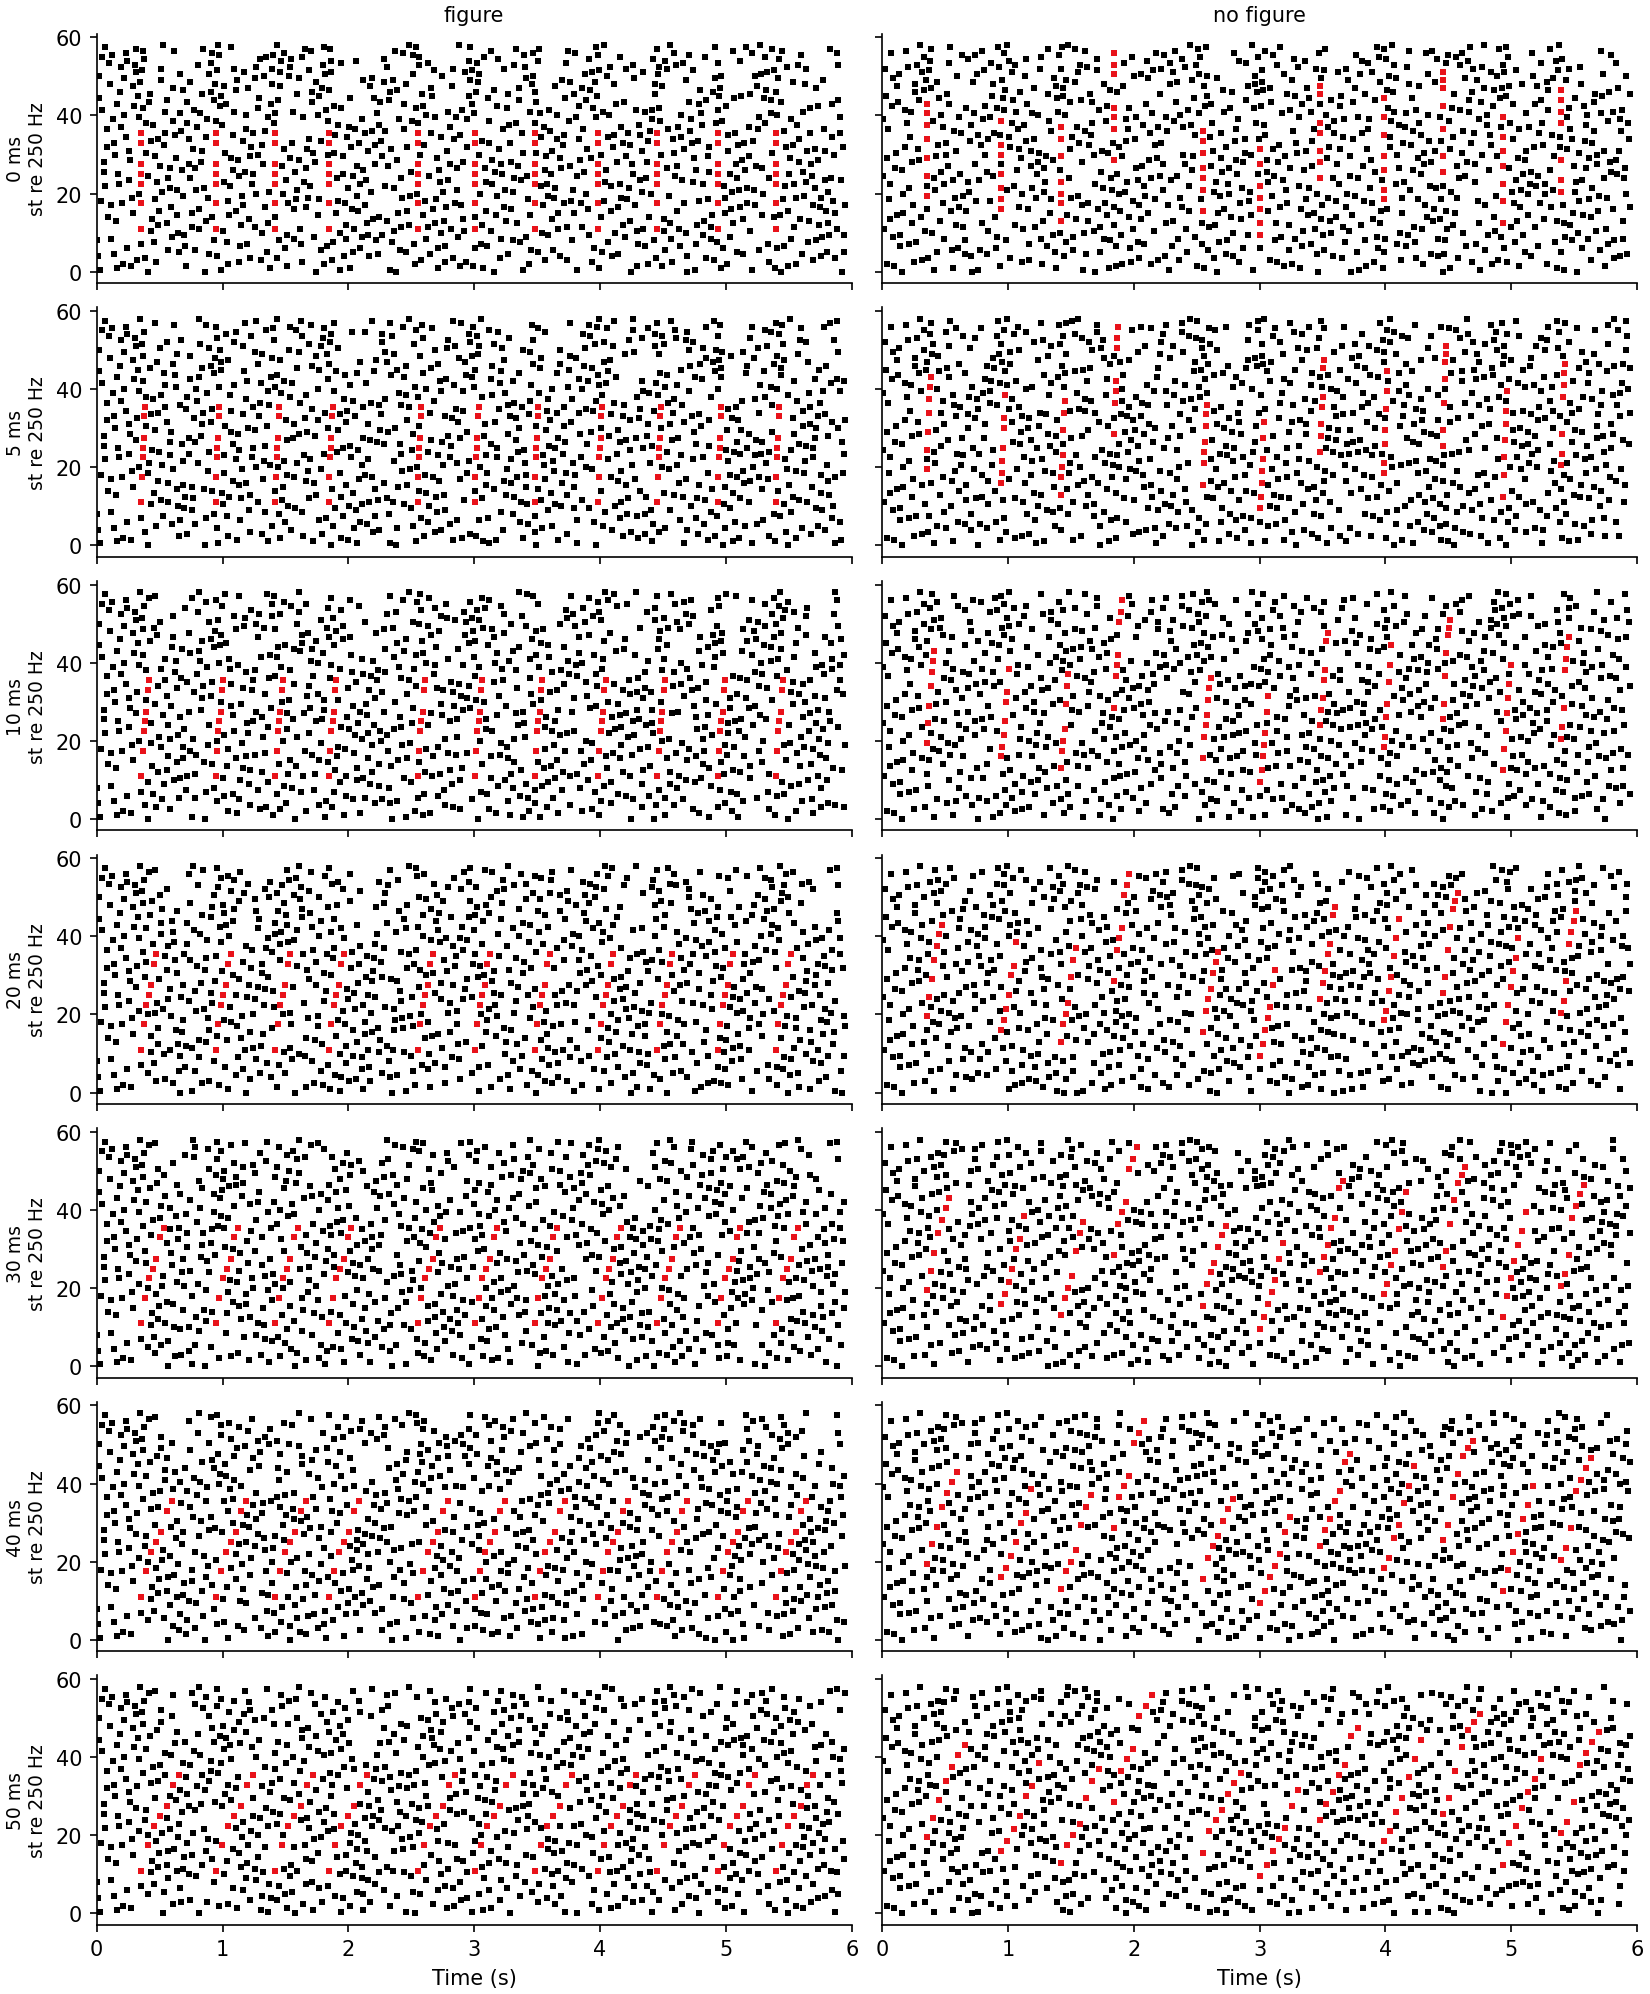
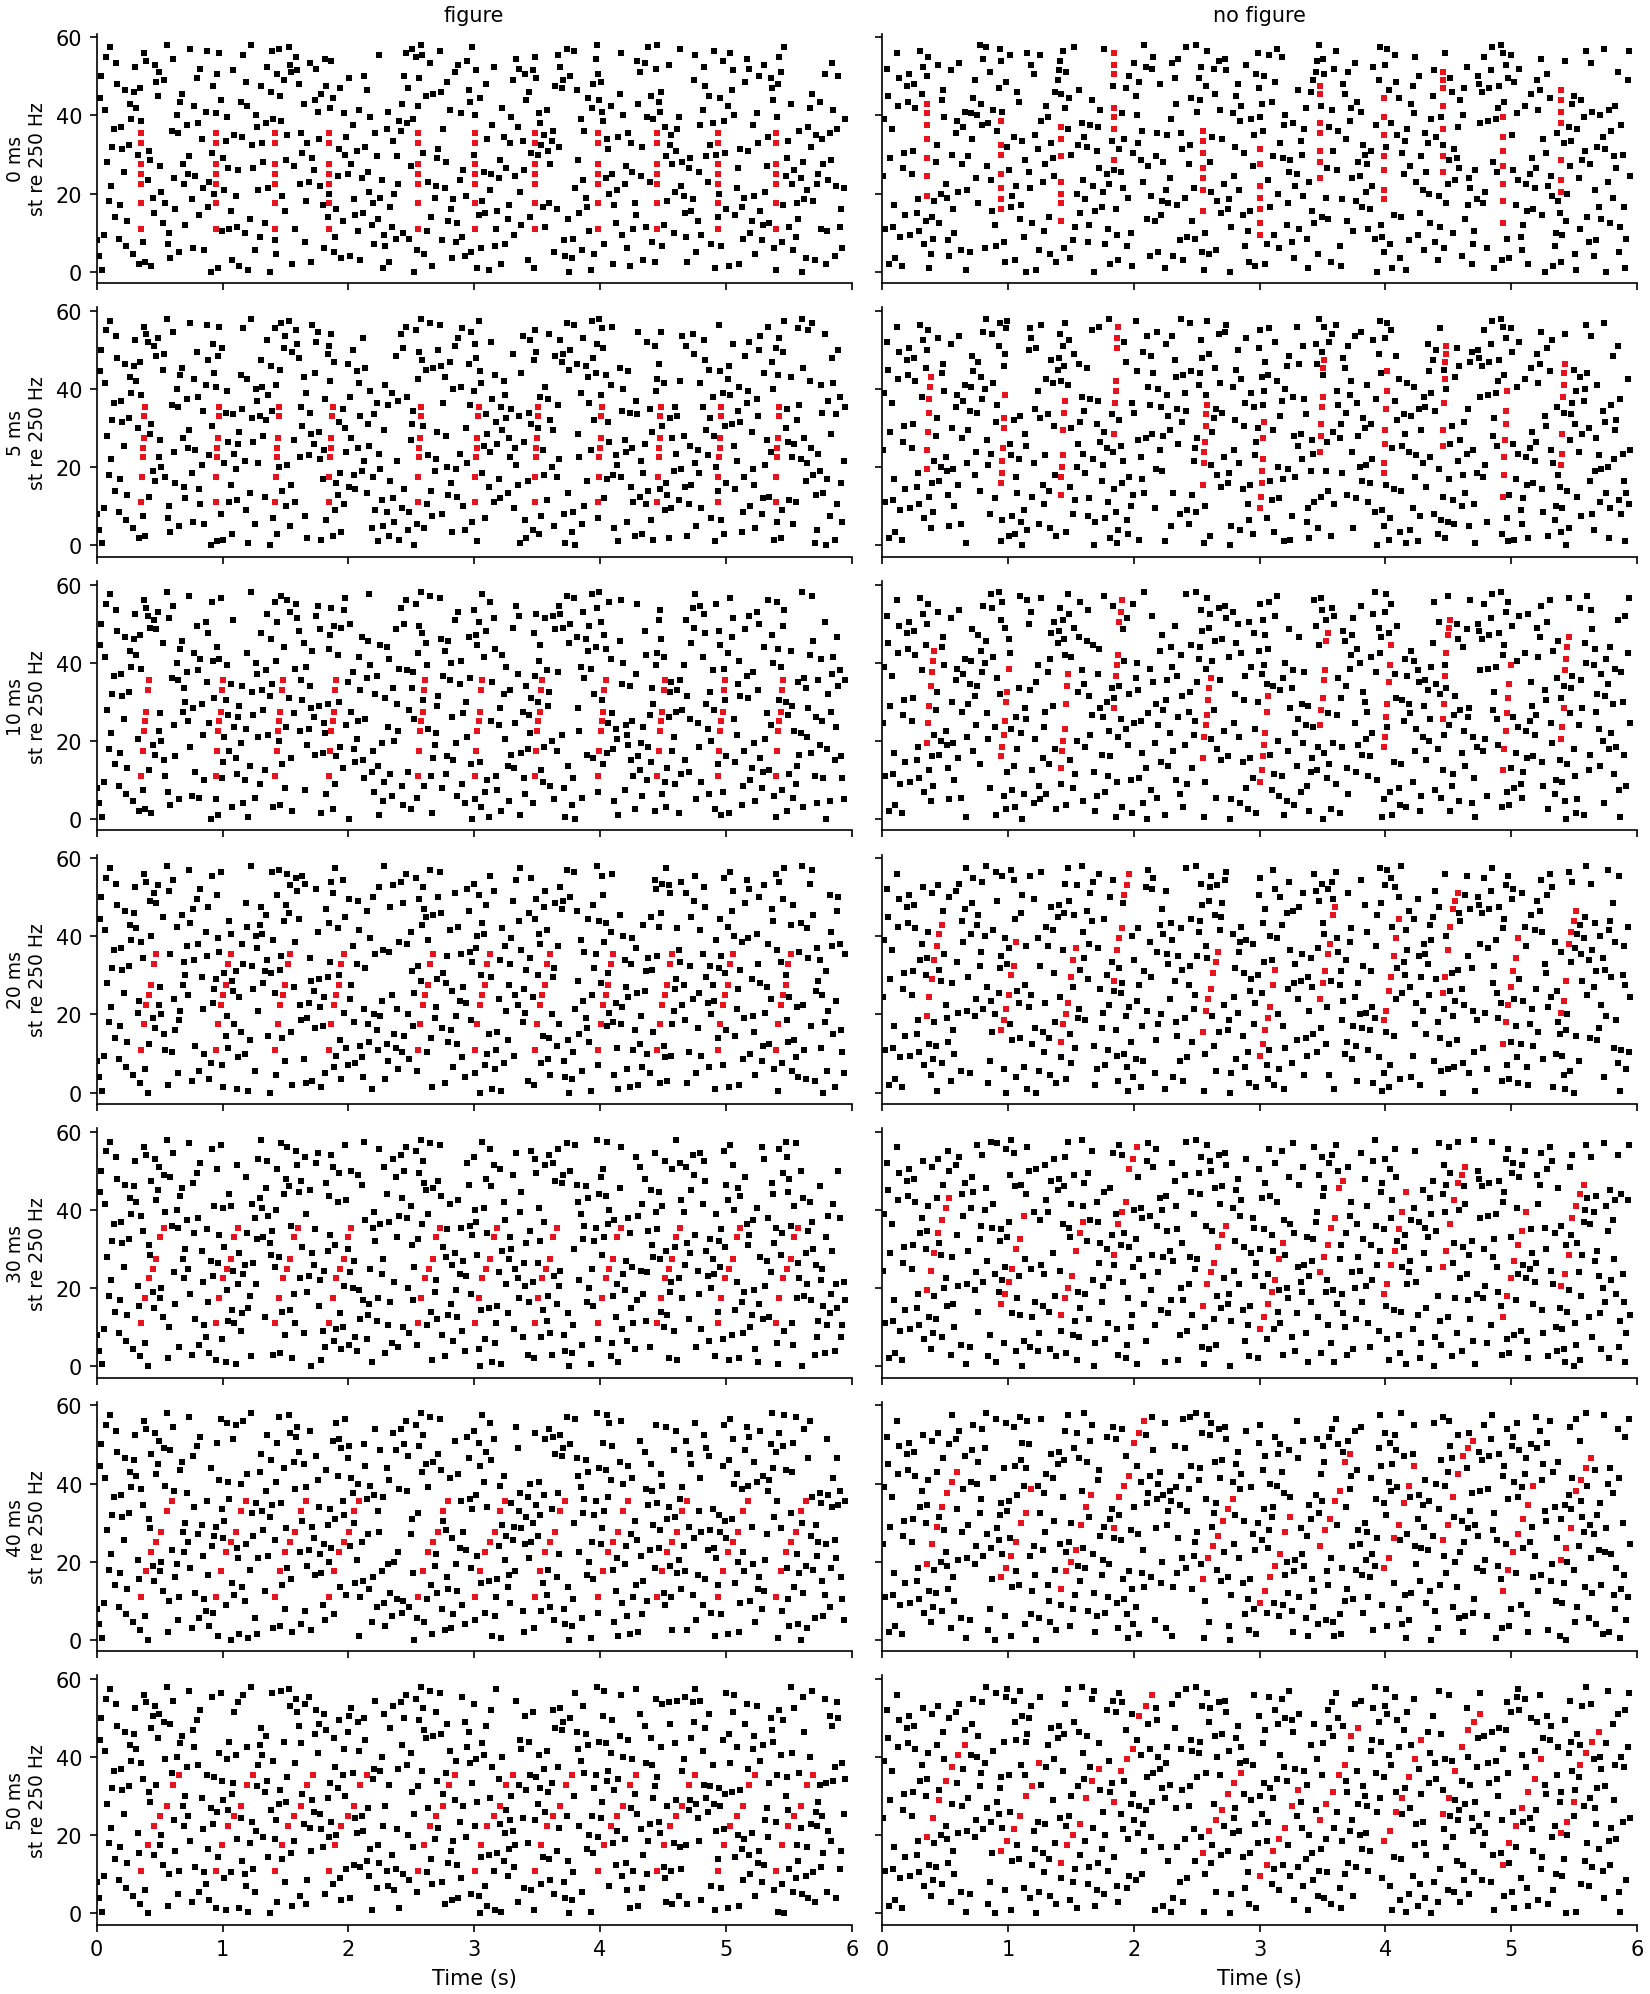
audios/sfg_task: thin the cloud, on the evidence of the first listener
Eight tones sounding gives 2.4x contrast, and the first listener sat at
chance at every delay except 0 ms.  Five gives 3.2x and is the bottom of the
5 to 15 range Teki draws from, so it is not an exotic setting.  Everything
else in the battery holds: 672 tones in both intervals at every delay, level
matched to 0.000 dB, element pulse under 0.07 dB, no beating pairs, and the
present-absent envelope difference still below the noise floor of its own
measurement.

The price is that the levelling has more to do.  Seven tones arriving on top
of five is a bigger relative jump than on top of eight, so the compensating
gain moves 5.0 dB at 0 ms rather than 3.9, and everything ducks audibly when
a chord arrives.  It is identical in the two intervals, so it is not a cue.

Also: practice that ends below criterion now says so, on screen and in the
log, instead of sliding quietly into the main block.  The first session
finished practice at 8 of 16 and went on anyway.

Changed region(s): [[0.0618, 0.0, 0.9891, 0.9639]]

diff --git a/audios/sfg_task/run.py b/audios/sfg_task/run.py
@@ -196,8 +196,13 @@ def run(d: Design, subject: str | None, root: Path, *, device=None,
                     hits.append(ok)
                 if len(hits) >= 10 and sum(hits[-10:]) >= d.practice_criterion:
                     break
-            print(f"  practice: {sum(hits)}/{len(hits)} correct\n")
-            log(f"practice done  {sum(hits)}/{len(hits)}")
+            met = len(hits) >= 10 and sum(hits[-10:]) >= d.practice_criterion
+            print(f"  practice: {sum(hits)}/{len(hits)} correct"
+                  + ("" if met else
+                     f"  {RED}(never reached {d.practice_criterion}/10; "
+                     f"the main block will be hard){OFF}") + "\n")
+            log(f"practice done  {sum(hits)}/{len(hits)}  "
+                f"criterion {'met' if met else 'NOT met'}")
 
         done = []
         for i, (r, a) in enumerate(zip(rows, audio)):

diff --git a/audios/sfg_task/config.py b/audios/sfg_task/config.py
@@ -37,7 +37,11 @@ class Design:
                                  # that octave is boosted 11 dB and takes
                                  # over the stimulus
     grid_st: float = 0.5
-    bg_sounding: int = 8
+    bg_sounding: int = 5         # thinner than Teki's mean of 10, and at the
+                                 # bottom of the 5 to 15 they draw from.  A
+                                 # first listener sat at chance at every
+                                 # delay except 0 ms with 8 sounding, which
+                                 # is 2.4x contrast; 5 gives 3.2x
     dealer_slack: float = 3.0    # counts stay level, order stays unguessable
     guard_ms: float = 50.0       # rest before a channel may sound again, so
                                  # two background tones never abut into one

diff --git a/audios/sfg_task/README.md b/audios/sfg_task/README.md
@@ -16,9 +16,8 @@ thing?
 ## The stimulus
 
 A cloud of 50 ms tones with 10 ms raised-cosine ramps, drawn from 117 channels spanning
-250 to 7246 Hz on a 1/24 octave grid, all at the same level. Exactly eight tones sound
-at every instant, by a start pattern that puts `bg_sounding` starts in every tone
-length. That works for any count, not only for multiples of it.
+250 to 7246 Hz on a 1/24 octave grid, all at the same level. Exactly five tones sound at
+every instant, by a start pattern that puts `bg_sounding` starts in every tone length. That works for any count, not only for multiples of it.
 
 No two tones ever sound at once inside one critical band. A 1/24 octave pool puts four
 to eight channels inside every ERB, and without this rule two thirds of the tones
@@ -99,7 +98,7 @@ these. Construction arguments are not evidence.
 
 | control | how |
 |---|---|
-| tone count | identical by construction; measured, 1029 in both |
+| tone count | identical by construction; measured, 672 in both |
 | tones sounding | identical range at every step |
 | long-term level | RMS-normalised, 0.000 dB apart |
 | long-term spectrum | within 0.4 dB in any third-octave band |
